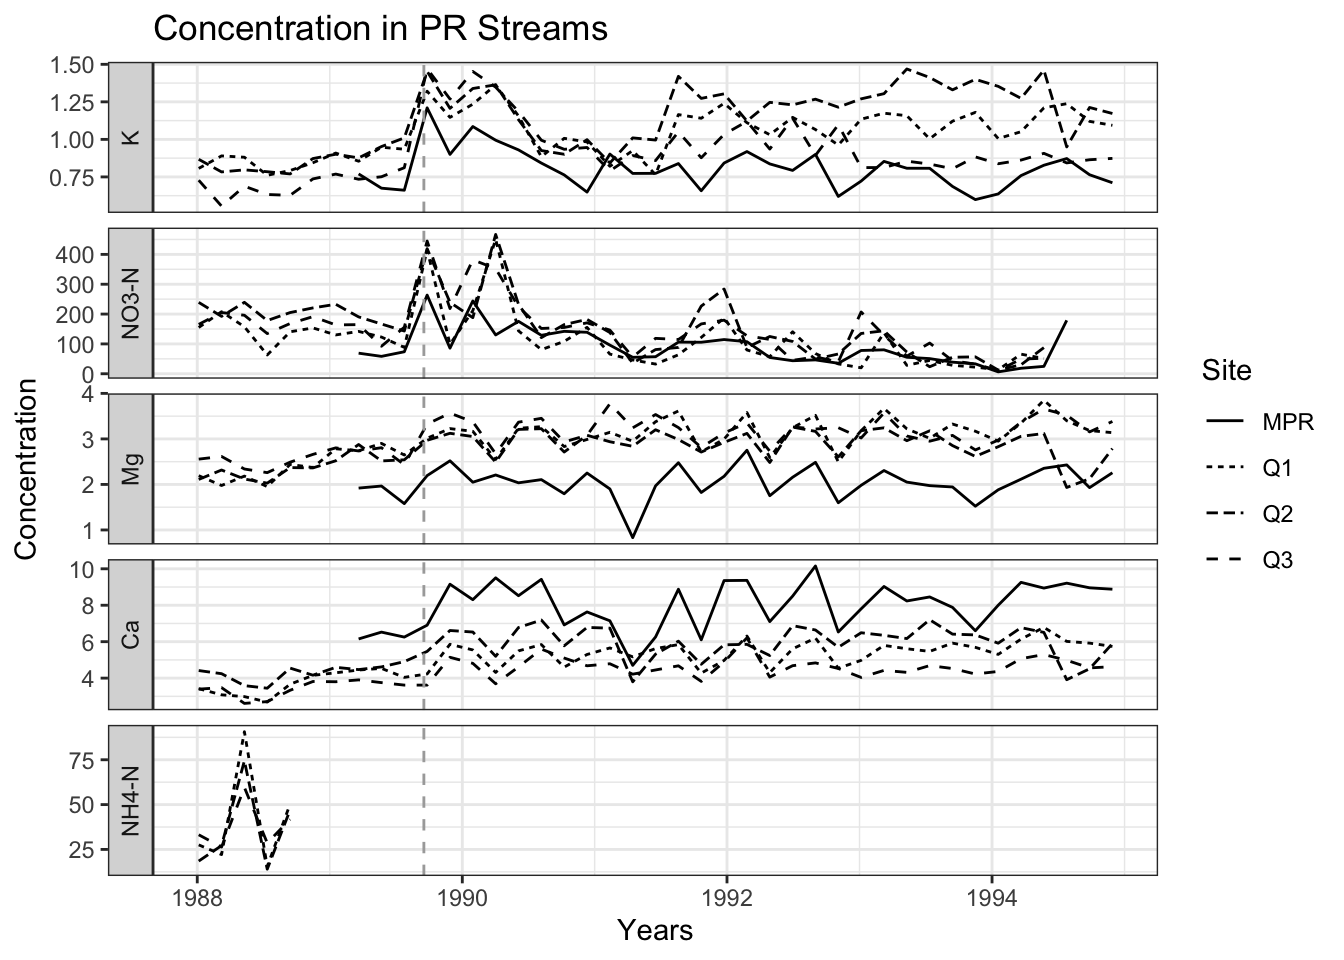
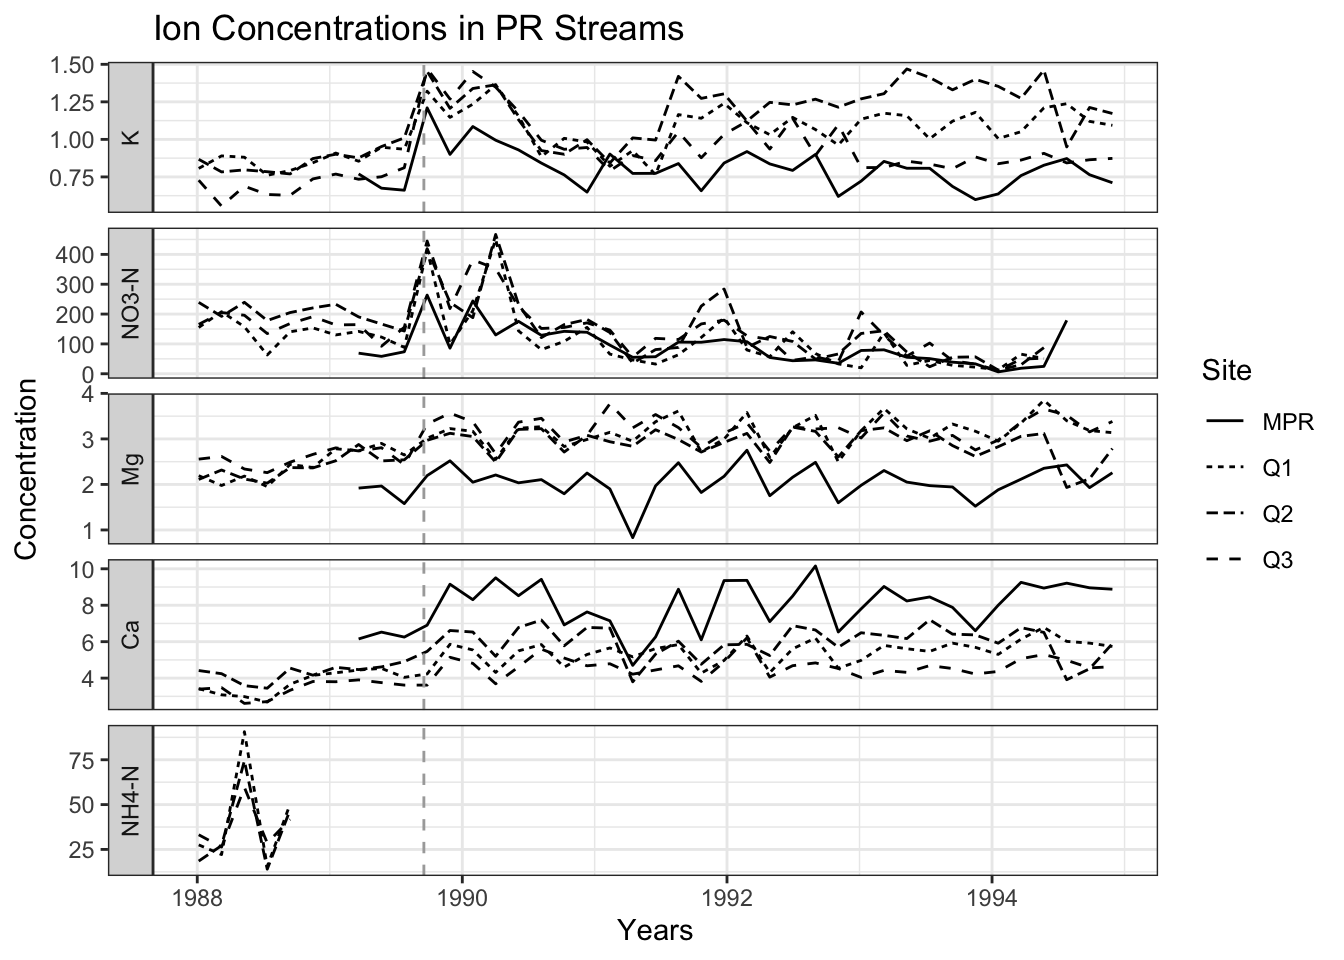
instructor feedback

Changed region(s): [[0.125, 0.0, 0.5, 0.0625]]

diff --git a/docs/paper.html b/docs/paper.html
@@ -119,7 +119,7 @@ pre > code.sourceCode > span > a:first-child::before { text-decoration: underlin
 <span id="cb1-13"><a href="#cb1-13" aria-hidden="true" tabindex="-1"></a>  <span class="fu">labs</span>(</span>
 <span id="cb1-14"><a href="#cb1-14" aria-hidden="true" tabindex="-1"></a>    <span class="at">x =</span> <span class="st">"Years"</span>,</span>
 <span id="cb1-15"><a href="#cb1-15" aria-hidden="true" tabindex="-1"></a>    <span class="at">y =</span> <span class="st">"Concentration"</span>,</span>
-<span id="cb1-16"><a href="#cb1-16" aria-hidden="true" tabindex="-1"></a>    <span class="at">title =</span> <span class="st">"Concentration in PR Streams"</span></span>
+<span id="cb1-16"><a href="#cb1-16" aria-hidden="true" tabindex="-1"></a>    <span class="at">title =</span> <span class="st">"Ion Concentrations in PR Streams"</span></span>
 <span id="cb1-17"><a href="#cb1-17" aria-hidden="true" tabindex="-1"></a>  ) <span class="sc">+</span></span>
 <span id="cb1-18"><a href="#cb1-18" aria-hidden="true" tabindex="-1"></a>  <span class="fu">geom_vline</span>(</span>
 <span id="cb1-19"><a href="#cb1-19" aria-hidden="true" tabindex="-1"></a>    <span class="at">xintercept =</span> <span class="fu">ymd</span>(<span class="st">"1989-09-17"</span>),</span>

diff --git a/instructor-feedback.md b/instructor-feedback.md
@@ -1,0 +1,11 @@
+# Collaboration
+
+I provided comments on Ethans code to help him meet all of the specs. I noted that he had some issues with his quarto document rendering and suggested where the error could be coming from. I also gave suggestions on how he could improve his README, and noted that he could improve his code by adding more comments. I also noted where he did a good job like in his organization! I also edited Michaela's code and added a file for her to put her data reading and cleaning code.
+
+## Three closed issues from self assessment and peer review
+https://github.com/gitanjali1024/gps214final/issues/3
+https://github.com/gitanjali1024/gps214final/issues/4
+https://github.com/gitanjali1024/gps214final/issues/6
+
+## Resolved merge conflict
+https://github.com/gitanjali1024/gps214final/pull/2
